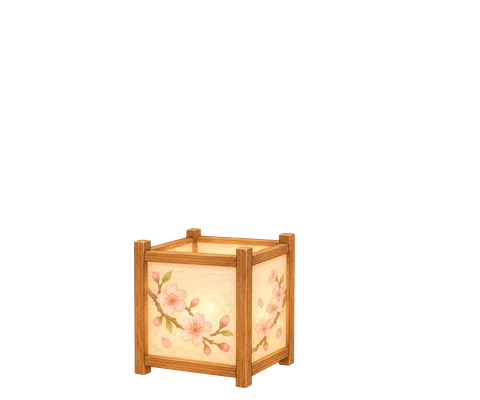
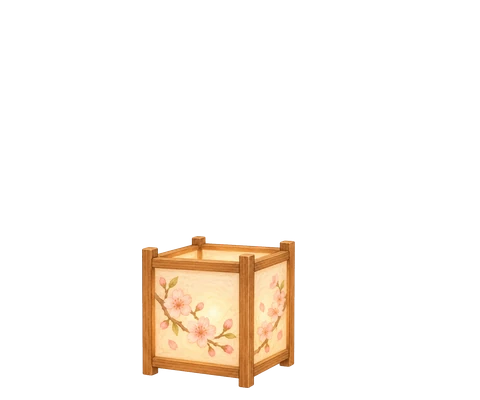
Shrink Tapuz in onsen tubs, resize sakura-toro, stop pinwheel spinning in shop
Claude-Session: https://claude.ai/code/session_01Pkw8LBSwnZBu2yAEbnaNRH

Changed region(s): [[0.2812, 0.57, 0.625, 0.99]]

diff --git a/index.html b/index.html
@@ -118,7 +118,10 @@
      (transform-origin set inline, measured on the raw art -- see ITEMS.kazaguruma.wheel), kept
      separate so the rotate and the translateX(-50%) centring don't fight over one transform. */
   .kazaguruma-wheel-wrap { position: absolute; transform: translateX(-50%); pointer-events: none; }
-  .kazaguruma-wheel-wrap img { display: block; width: 100%; height: auto; animation: spin 2.6s linear infinite; }
+  .kazaguruma-wheel-wrap img { display: block; width: 100%; height: auto; }
+  /* Only spins when placed in a room (inSpot) -- the shop/bag thumbnail shows it still, matching
+     every other item's thumbnail (no wobble, no water shimmer there either). */
+  .kazaguruma-wheel-wrap.spin img { animation: spin 2.6s linear infinite; }
   @keyframes spin { to { transform: rotate(360deg); } }
   .water { position: absolute; transform: translateX(-50%); pointer-events: none; animation: shimmer 4s ease-in-out infinite; will-change: transform, opacity; }
   @keyframes shimmer { 0%, 100% { opacity: .8; transform: translateX(-50%); } 50% { opacity: 1; transform: translateX(calc(-50% + 1.5%)); } }
@@ -353,9 +356,9 @@
     'taiyaki-xl': { room: 'onsen', ja: '大きなたい焼き', tr: 'ookina taiyaki', en: 'big taiyaki', price: 280, pose: 'ride', poses: ['ride', 'half', 'soak'], cat: { x: 56.25, y: 65 }, offset: { rimon: { x: 0, y: 0.5, s: 1 }, pilpel: { x: 0, y: 0, s: 1.05 } } },
     stool:    { room: 'onsen', ja: '腰掛け', tr: 'koshikake', en: 'stool', price: 200, pose: 'sit', poses: ['sit', 'sleep'], cat: { x: 50, y: 68 }, poseOffset: { sleep: { x: 0, y: 2.8 } } },
     'sakura-toro': { room: 'onsen', ja: '灯籠', tr: 'tōrō', en: 'sakura lantern', price: 260, pose: 'peer', cat: { x: 73.8, y: 87.5 }, inFront: true },
-    'onsen-clay': { room: 'onsen', xl: true, poses: ['half', 'soak'], water: { x: 50, y: 23.9, w: 92.6, steamDy: 10.6 }, ja: '土風呂', tr: 'tsuchi-buro', en: 'clay bath', price: 300, pose: 'half', scale: 2, cat: { x: 50, y: 62 }, poseOffset: { half: { x: -7.4, y: -28.1 }, soak: { x: -7.4, y: -28.1 } }, offset: { sheleg: { x: 0, y: -1.1, s: 0.95 } } },
-    'onsen-hex': { room: 'onsen', xl: true, poses: ['half', 'soak'], water: { x: 50, y: 28.4, w: 93.0, steamDy: 10.6 }, poseOffset: { half: { x: 0, y: 1.8 } }, ja: '六角風呂', tr: 'rokkaku-buro', en: 'hexagonal bath', price: 380, pose: 'half', scale: 2, cat: { x: 50, y: 62 }, offset: { sheleg: { x: 0, y: 0, s: 0.95 } } },
-    'onsen-hinoki': { room: 'onsen', xl: true, poses: ['half', 'soak'], water: { x: 50, y: 31.5, w: 80.5, steamDy: 10.6 }, poseOffset: { half: { x: 0, y: -15.8 }, soak: { x: 0, y: -21.1 } }, ja: '檜風呂', tr: 'hinoki-buro', en: 'hinoki bath', price: 520, pose: 'half', scale: 2, cat: { x: 50, y: 62 }, offset: { sheleg: { x: 0, y: 0, s: 0.95 } } },
+    'onsen-clay': { room: 'onsen', xl: true, poses: ['half', 'soak'], water: { x: 50, y: 23.9, w: 92.6, steamDy: 10.6 }, ja: '土風呂', tr: 'tsuchi-buro', en: 'clay bath', price: 300, pose: 'half', scale: 2, cat: { x: 50, y: 62 }, poseOffset: { half: { x: -7.4, y: -28.1 }, soak: { x: -7.4, y: -28.1 } }, offset: { sheleg: { x: 0, y: -1.1, s: 0.95 }, tapuz: { x: 0, y: 0, s: 0.95 } } },
+    'onsen-hex': { room: 'onsen', xl: true, poses: ['half', 'soak'], water: { x: 50, y: 28.4, w: 93.0, steamDy: 10.6 }, poseOffset: { half: { x: 0, y: 1.8 } }, ja: '六角風呂', tr: 'rokkaku-buro', en: 'hexagonal bath', price: 380, pose: 'half', scale: 2, cat: { x: 50, y: 62 }, offset: { sheleg: { x: 0, y: 0, s: 0.95 }, tapuz: { x: 0, y: 0, s: 0.95 } } },
+    'onsen-hinoki': { room: 'onsen', xl: true, poses: ['half', 'soak'], water: { x: 50, y: 31.5, w: 80.5, steamDy: 10.6 }, poseOffset: { half: { x: 0, y: -15.8 }, soak: { x: 0, y: -21.1 } }, ja: '檜風呂', tr: 'hinoki-buro', en: 'hinoki bath', price: 520, pose: 'half', scale: 2, cat: { x: 50, y: 62 }, offset: { sheleg: { x: 0, y: 0, s: 0.95 }, tapuz: { x: 0, y: 0, s: 0.95 } } },
 
     ball:     { room: 'engawa', ja: '毬', tr: 'temari', en: 'ball', price: 120, pose: 'lie', wobble: true, cat: { x: 73, y: 93 } },
     yarn:     { room: 'engawa', ja: '毛糸', tr: 'keito', en: 'ball of yarn', price: 200, pose: 'lie', wobble: true, cat: { x: 73, y: 94 } },
@@ -481,9 +484,10 @@
     const it = ITEMS[id], grow = inSpot && it.scale ? ` style="transform:scale(${it.scale});transform-origin:50% 90%"` : '';
     const shadow = inSpot && !it.xl ? SHADOW_SVG : '';
     const reflection = inSpot && it.room === 'shokudo' ? `<img class="layer reflection" src="${art.item(id)}" alt="" aria-hidden="true">` : '';
-    // The wheel is drawn here too (not just in-spot), so the shop/bag thumbnail shows the spinning
-    // head, not just the bare stand -- the wheel is the item's whole visual identity.
-    const wheel = it.wheel ? `<div class="kazaguruma-wheel-wrap" style="left:${it.wheel.x}%;top:${it.wheel.y}%;width:${it.wheel.w}%">` +
+    // The wheel is drawn here too (not just in-spot), so the shop/bag thumbnail shows the wheel head,
+    // not just the bare stand -- the wheel is the item's whole visual identity. It only spins in-spot
+    // (see .spin in the CSS) -- the thumbnail shows it still, matching every other item there.
+    const wheel = it.wheel ? `<div class="kazaguruma-wheel-wrap${inSpot ? ' spin' : ''}" style="left:${it.wheel.x}%;top:${it.wheel.y}%;width:${it.wheel.w}%">` +
       `<img src="objects/${id}-wheel.webp" alt="" style="transform-origin:52% 54%"></div>` : '';
     return {
       shadow,

diff --git a/tools/process_art.py b/tools/process_art.py
@@ -51,7 +51,7 @@ SIT_HEIGHT = 250      # each cat's sitting pose is scaled to this content height
 CAT_SIZE = 0.85       # cats in the layers are drawn at this fraction of SIT_HEIGHT. Measured
                       # against the Tapuz combos (the reference): their cat is about 0.85 of
                       # the layer's sitting height, while the objects match the combos at 1.0
-OBJECT_SIZE = {'ball': 0.8, 'yarn': 0.8, 'takoyaki': 0.7, 'onigiri': 1.2, 'taiyaki': 1.05, 'taiyaki-xl': 1.5, 'mochi': 1.35}  # extra size factor per object, on top of the shared item scale (cats are unchanged).
+OBJECT_SIZE = {'ball': 0.8, 'yarn': 0.8, 'takoyaki': 0.7, 'onigiri': 1.2, 'taiyaki': 1.05, 'taiyaki-xl': 1.5, 'mochi': 1.35, 'sakura-toro': 0.95}  # extra size factor per object, on top of the shared item scale (cats are unchanged).
 # mochi: sized up so its silhouette is convincingly wider than the cat's "head" pose peeking over it
 # (it was barely wider than the cat's own ears before -- compare taiyaki, which already reads right).
 SHADOW_CUT = {'mochi': 0, 'taiyaki': 0, 'taiyaki-xl': 0, 'redpanda': 0.8}   # items whose ground shadow is removed, from this fraction of the height down (see drop_shadow)
